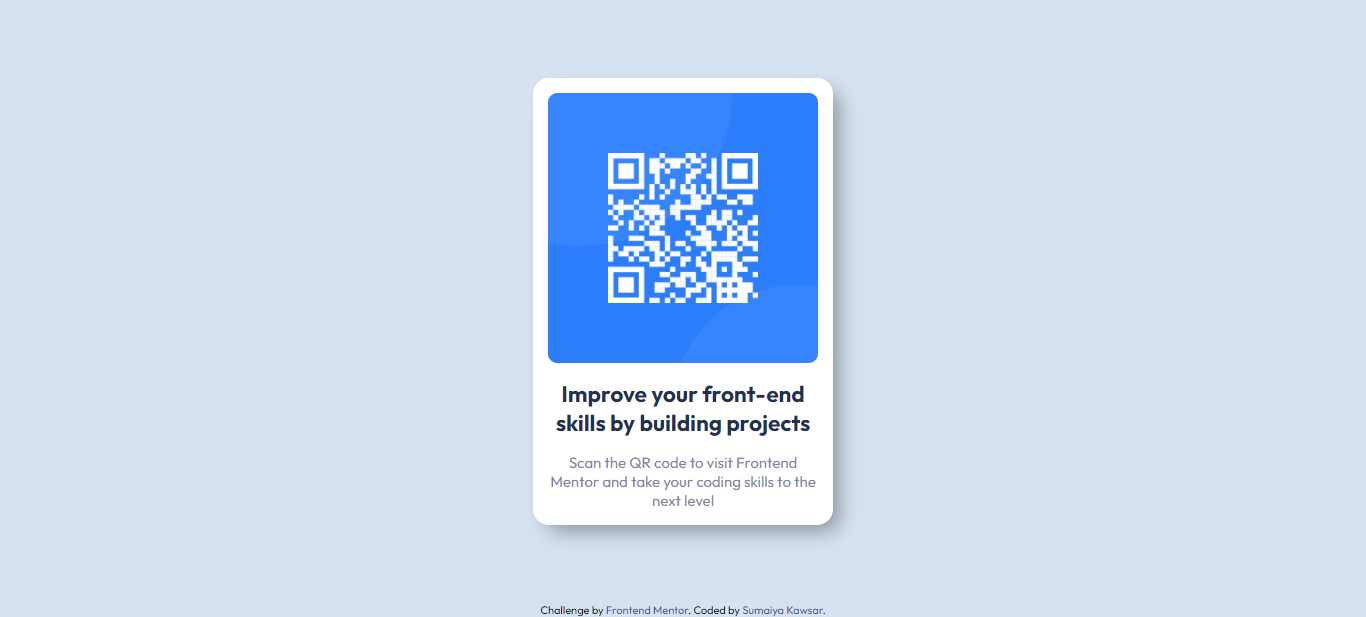
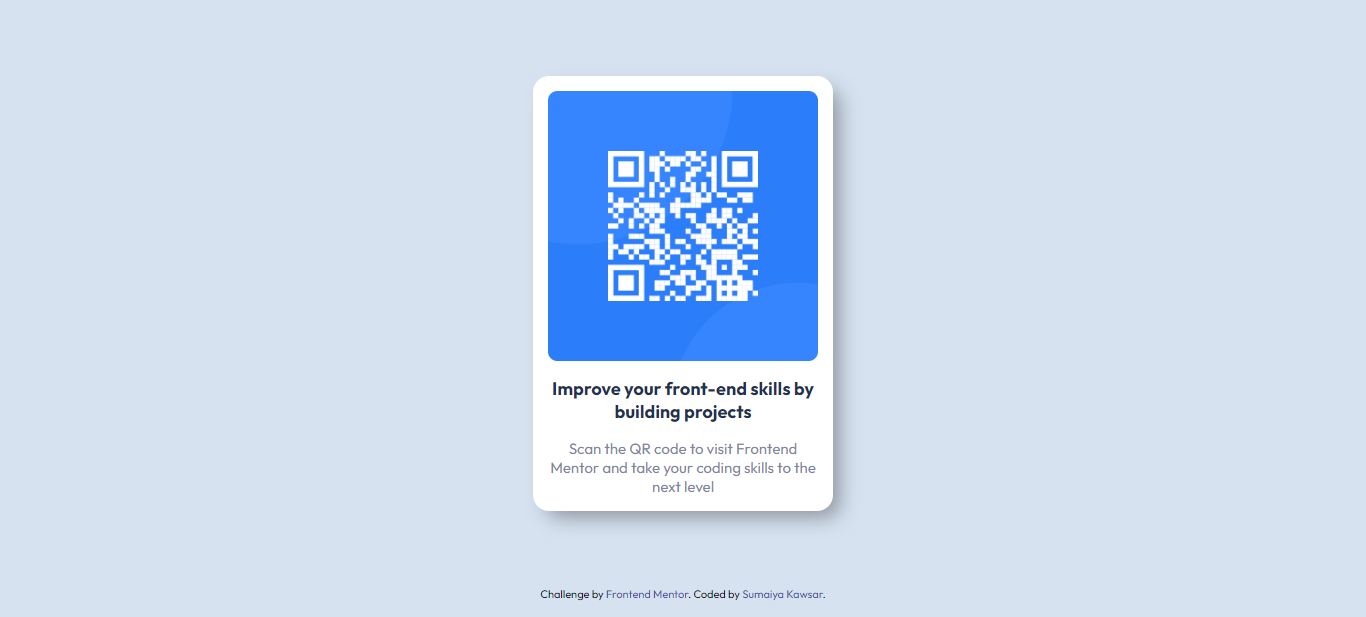
Updated

diff --git a/Projects/qr-code-component-project/styles/styles.css b/Projects/qr-code-component-project/styles/styles.css
@@ -1,1 +1,1 @@
-@import"https://fonts.googleapis.com/css2?family=Outfit:wght@400;700;800;900&display=swap";@import"https://fonts.googleapis.com/css2?family=Outfit:wght@400;700;800;900&display=swap";@media screen and (max-width: 23.4375em){.container{width:80%}}*{margin:0;padding:0;border:0;outline:0;box-sizing:border-box;list-style:none;text-decoration:none}body{background:#d6e2f0;font-family:"Outfit",sans-serif;font-size:15px;display:flex;flex-direction:column;align-items:center;justify-content:space-between;height:100vh}body .container{margin:0 auto;max-width:100%}body .container .card{border-radius:1rem;display:flex;box-shadow:10px 10px 20px -4px rgba(0,0,0,.35);align-items:center;justify-content:center;gap:1rem;background:#fff;text-align:center;flex-direction:column;padding:1em;width:300px}body .container .card__img{width:100%;height:auto;border-radius:0.625em}body .container .card__header{font-weight:700;color:#1f3251}body .container .card__body{font-weight:400;font-size:15px;color:#7b879d}body .attribution{font-size:0.6875rem;text-align:center}body .attribution a{color:#3e52a3}/*# sourceMappingURL=styles.css.map */
+@import"https://fonts.googleapis.com/css2?family=Outfit:wght@400;700;800;900&display=swap";@import"https://fonts.googleapis.com/css2?family=Outfit:wght@400;700;800;900&display=swap";@media screen and (max-width: 23.4375em){.container{width:80%}}*{margin:0;padding:0;border:0;outline:0;box-sizing:border-box;list-style:none;text-decoration:none}body{background:#d6e2f0;font-family:"Outfit",sans-serif;font-size:0.9375rem;display:flex;flex-direction:column;align-items:center;justify-content:space-between;height:100vh}body .container{margin:0 auto;max-width:100%}body .container .card{border-radius:1rem;display:flex;box-shadow:10px 10px 20px -4px rgba(0,0,0,.35);align-items:center;justify-content:center;gap:1rem;background:#fff;text-align:center;flex-direction:column;padding:1em;width:300px}body .container .card__img{width:100%;height:auto;border-radius:0.625em}body .container .card__header{font-weight:700;font-size:1.125rem;color:#1f3251}body .container .card__body{font-weight:400;font-size:0.9375rem;color:#7b879d}body .attribution{-webkit-padding-after:1rem;padding-block-end:1rem;font-size:0.6875rem;text-align:center}body .attribution a{color:#3e52a3}/*# sourceMappingURL=styles.css.map */

diff --git a/Projects/qr-code-component-project/styles/styles.scss b/Projects/qr-code-component-project/styles/styles.scss
@@ -44,6 +44,7 @@ body {
             }
             &__header {
                 font-weight: $font-bold;
+                font-size: f.rem(18);
                 color: $dark-blue;
             }
             &__body {
@@ -55,6 +56,7 @@ body {
     }
 
     .attribution {
+        padding-block-end: f.rem(16);
         font-size: f.rem(11);
         text-align: center;
         a {

diff --git a/Projects/qr-code-component-project/styles/_variables.scss b/Projects/qr-code-component-project/styles/_variables.scss
@@ -1,3 +1,4 @@
+@use "../../../universal-styles/functions" as f;
 @import url('https://fonts.googleapis.com/css2?family=Outfit:wght@400;700;800;900&display=swap');
 
 // ## Layout
@@ -11,7 +12,7 @@ $grayish-blue: hsl(220, 15%, 55%);
 $dark-blue: hsl(218, 44%, 22%);
 
 // ## Typography
-$font-size-p:15px;
+$font-size-p:f.rem(15);
 
 // Font
 $font-family: 'Outfit', sans-serif;
